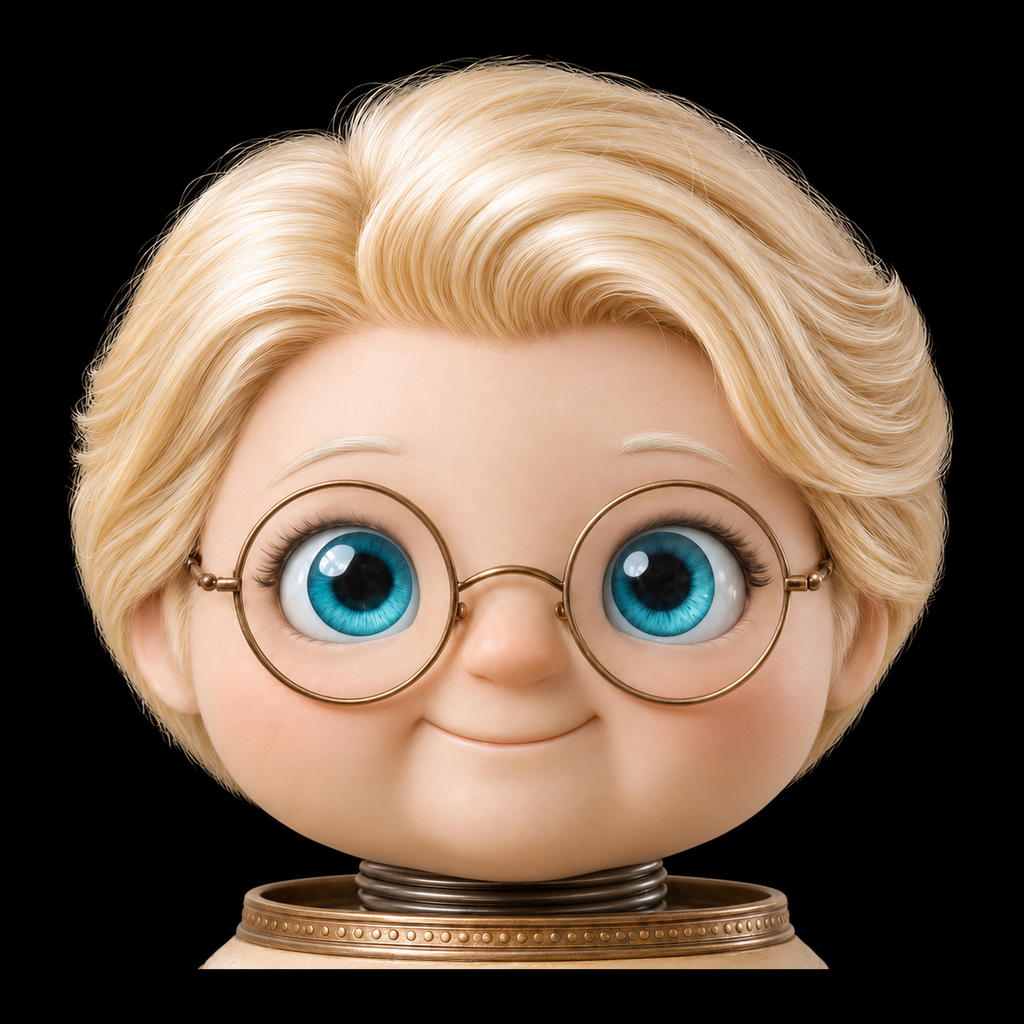
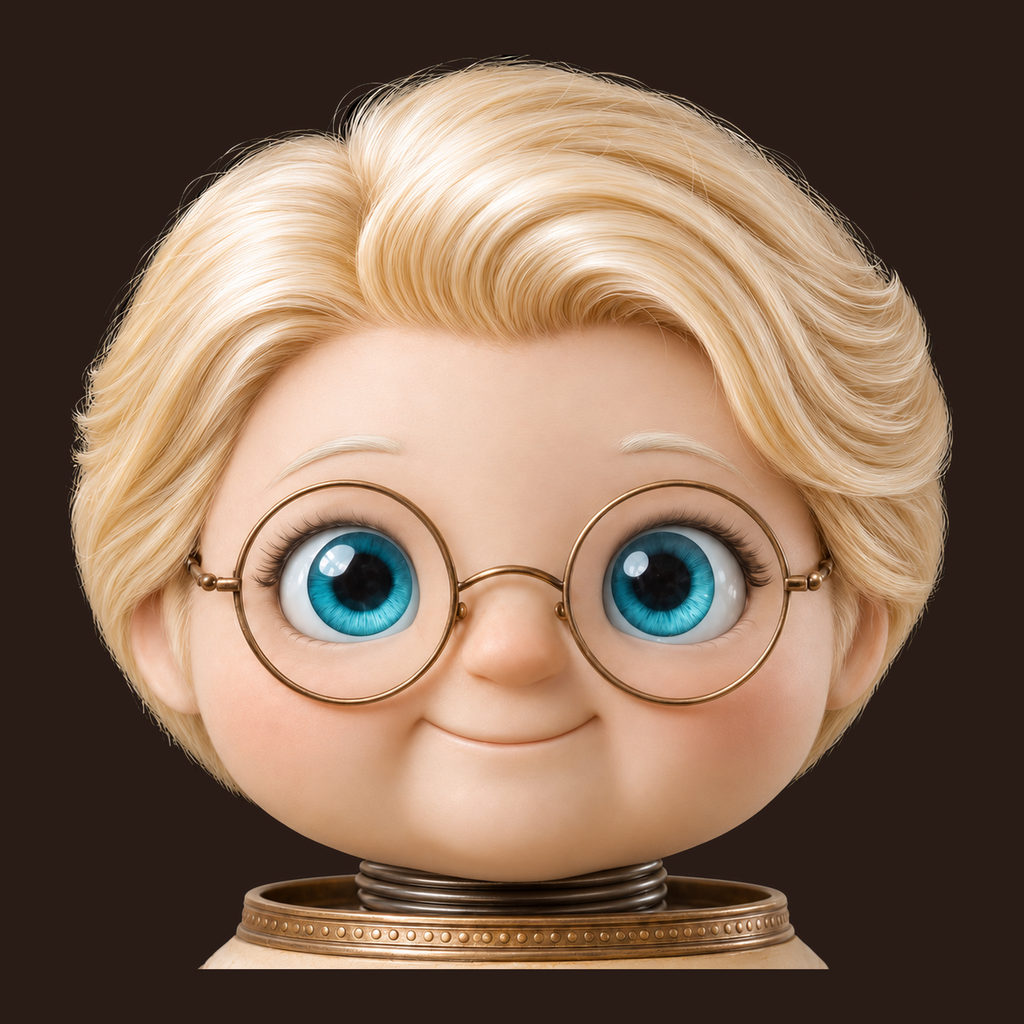
Leda: fundo marrom e cobre metálico na barra, microfone e 'Fale com a Leda'; arte oficial em alta definição; ícones novos

diff --git a/app-leda/full.html b/app-leda/full.html
@@ -10,7 +10,7 @@
 <style>
 :root{
   --bg:#06070a; --ink:#e9eae6; --muted:#8a8d86; --line:rgba(255,255,255,.08);
-  --accent:#d6ff1a; --accent-rgb:214,255,26; --accent-ink:#000; --led:#4fa8ff; --down:#ff6a62; --down-rgb:255,106,98;
+  --accent:#c98a4b; --accent-rgb:201,138,75; --accent-ink:#000; --led:#4fa8ff; --down:#ff6a62; --down-rgb:255,106,98;
   --grid:rgba(255,255,255,.035);
   --mono:"Share Tech Mono",ui-monospace,SFMono-Regular,Menlo,monospace;
   --sans:"Saira",system-ui,-apple-system,"Segoe UI",sans-serif;
@@ -64,7 +64,7 @@ body::after{content:"";position:fixed;inset:0;pointer-events:none;background:rad
 /* com o rosto ao vivo, o centro vira o quadro do FULL: retângulo grande, sem os anéis */
 #hud.com-rosto .orbWrap{width:min(100%,960px);aspect-ratio:16/9}
 #hud.com-rosto #rings{display:none}
-#hud.com-rosto .face{width:100%;aspect-ratio:16/9;border-radius:18px;box-shadow:0 0 0 1px rgba(214,255,26,.18),0 0 50px rgba(214,255,26,.08)}
+#hud.com-rosto .face{width:100%;aspect-ratio:16/9;border-radius:18px;box-shadow:0 0 0 1px rgba(201,138,75,.18),0 0 50px rgba(201,138,75,.08)}
 #hud.com-rosto .face video{object-fit:contain}
 #hud.com-rosto .face canvas{opacity:0}
 .scan{position:absolute;inset:0;border-radius:50%;pointer-events:none;opacity:0;transition:opacity .3s}
@@ -150,10 +150,10 @@ body::after{content:"";position:fixed;inset:0;pointer-events:none;background:rad
 .tile[data-toggle="1"]::before{content:"";position:absolute;left:6px;top:6px;width:5px;height:5px;border-radius:50%;background:#3a3d38}
 .tile[data-toggle="1"][data-on="1"]{border-color:rgba(var(--accent-rgb),.7);color:var(--accent);box-shadow:inset 0 0 14px rgba(var(--accent-rgb),.12)}
 .tile[data-toggle="1"][data-on="1"]::before{background:var(--accent);box-shadow:0 0 8px rgba(var(--accent-rgb),.9)}
-.tile.scene-command{background:transparent;border-color:rgba(225,254,6,.68);color:#dfe2da}
+.tile.scene-command{background:transparent;border-color:rgba(201,138,75,.68);color:#dfe2da}
 .tile.scene-command.scene-pulse{animation:scenePulse 600ms ease-in-out both}
-@keyframes scenePulse{0%,100%{background:transparent;color:inherit;box-shadow:none}18%,58%{background:rgba(225,254,6,.5);color:#111;box-shadow:0 0 16px rgba(225,254,6,.28)}38%,78%{background:transparent;color:inherit;box-shadow:none}}
-@media(prefers-reduced-motion:reduce){.tile.scene-command.scene-pulse{animation:scenePulseReduced 300ms ease-out both}@keyframes scenePulseReduced{0%,100%{background:transparent;box-shadow:none}35%,65%{background:rgba(225,254,6,.4);box-shadow:0 0 12px rgba(225,254,6,.25)}}}
+@keyframes scenePulse{0%,100%{background:transparent;color:inherit;box-shadow:none}18%,58%{background:rgba(201,138,75,.5);color:#111;box-shadow:0 0 16px rgba(201,138,75,.28)}38%,78%{background:transparent;color:inherit;box-shadow:none}}
+@media(prefers-reduced-motion:reduce){.tile.scene-command.scene-pulse{animation:scenePulseReduced 300ms ease-out both}@keyframes scenePulseReduced{0%,100%{background:transparent;box-shadow:none}35%,65%{background:rgba(201,138,75,.4);box-shadow:0 0 12px rgba(201,138,75,.25)}}}
 .tile[data-empty="1"]{color:#55584f;border-style:dashed;font-family:var(--mono);font-size:.8rem}
 .tile[data-busy="1"]{border-color:var(--led);color:var(--led);box-shadow:0 0 14px rgba(79,168,255,.35);animation:busy 1s ease-in-out infinite}
 @keyframes busy{50%{box-shadow:0 0 4px rgba(79,168,255,.15)}}
@@ -452,16 +452,16 @@ input,select,textarea{font-size:16px!important}
 </script>
 <style id="semIris">#unlock{display:none!important}#hud>.mic{overflow:visible}#hud[data-tab="home"]>.mic[data-on="0"]::after{content:attr(data-rotulo);position:absolute;left:calc(100% + 16px);top:50%;transform:translateY(-50%);color:#e1fe06;font:700 1.02rem/1.1 "Barlow Semi Condensed","Barlow",system-ui,sans-serif;letter-spacing:.04em;white-space:nowrap;pointer-events:none;text-shadow:0 0 6px rgba(225,254,6,.75),0 0 18px rgba(225,254,6,.45),0 1px 2px #000}@media (orientation:landscape) and (max-height:600px){#hud[data-tab="home"]>.mic[data-on="0"]::after{left:auto;right:calc(100% + 16px)}}</style>
 <style id="ledaVisual">
-/* Leda (12/11/2026, revisão 2): busto recortado em fundo preto, rosto grande; paleta da VINCI; aba Receitas; sem cotações */
-:root{--leda:#e1fe06;--ledaRGB:225,254,6;--ink950:#080b0d;--ink900:#0e1317;--ink800:#141b21;--ink700:#1c252c;--linha:#24303a;--mist:#93a3af;--texto:#e8edf0}
-html,body{overscroll-behavior:none;background:#000}
+/* Leda (12/11/2026, revisão 3): arte oficial em fundo marrom; barra, microfone e frase em cobre metálico (como o anel do pescoço); aba Receitas; sem cotações */
+:root{--leda:#c98a4b;--ledaRGB:201,138,75;--cobre:linear-gradient(135deg,#f6d2a4 0%,#d39a5f 28%,#a8692f 52%,#e2b07a 74%,#8c5527 100%);--fundo:#291b16;--ink950:#291b16;--ink900:#34231c;--ink800:#3d2a22;--ink700:#4a3328;--linha:#563c2f;--mist:#bfa38b;--texto:#f3e8dc;--accent:#c98a4b;--accent-rgb:201,138,75}
+html,body,#hud{overscroll-behavior:none;background:var(--fundo)!important}
 #market,.panel.market{display:none!important}
 /* o rosto: nada do Felyx aparece (retrato, vídeo, canvas, anéis) */
 html body #hud[data-tab] .face img.retrato,html body #hud.com-rosto[data-tab] .face img.retrato,html body #hud[data-tab] .face video,html body #hud[data-tab] .face canvas,#hud #rings{display:none!important}
-#hud .face{background:#000!important;overflow:hidden!important;position:relative}
+#hud .face{background:var(--fundo)!important;overflow:hidden!important;position:relative}
 #hud .face .ledaBusto,#hud .face .ledaRosto{display:none;-webkit-user-select:none;user-select:none;pointer-events:none}
 /* ABA LEDA: busto grande no preto, rosto bem definido */
-html body #hud[data-tab="home"] .face{position:fixed!important;left:0!important;right:0!important;top:0!important;bottom:calc(var(--tabsH,64px) + var(--micZ,0px))!important;width:auto!important;height:auto!important;aspect-ratio:auto!important;border-radius:0!important;box-shadow:none!important;transform:none!important;background:#000!important}
+html body #hud[data-tab="home"] .face{position:fixed!important;left:0!important;right:0!important;top:0!important;bottom:calc(var(--tabsH,64px) + var(--micZ,0px))!important;width:auto!important;height:auto!important;aspect-ratio:auto!important;border-radius:0!important;box-shadow:none!important;transform:none!important;background:var(--fundo)!important}
 html body #hud[data-tab="home"] .face .ledaBusto{display:block!important;position:absolute!important;left:50%!important;bottom:0!important;top:auto!important;
   height:min(100%,calc(100vw * 1.55))!important;width:auto!important;max-width:none!important;transform:translateX(-50%);transform-origin:50% 100%;
   animation:ledaRespira 5.5s ease-in-out infinite}
@@ -474,7 +474,7 @@ html body #hud[data-tab="home"][data-state="speaking"] .face::after{opacity:1;an
 html body #hud:not([data-tab="home"]) .face{border-radius:50%!important}
 html body #hud:not([data-tab="home"]) .face .ledaRosto{display:block!important;position:absolute!important;inset:0!important;width:100%!important;height:100%!important;
   transform:none!important;left:0!important;top:0!important;object-fit:cover;object-position:50% 45%;border-radius:50%}
-html body #hud:not([data-tab="home"]) .orbWrap{box-shadow:0 0 0 2px rgba(var(--ledaRGB),.55),0 0 26px rgba(var(--ledaRGB),.18)!important;border-radius:50%;background:#000!important}
+html body #hud:not([data-tab="home"]) .orbWrap{box-shadow:0 0 0 2px rgba(var(--ledaRGB),.55),0 0 26px rgba(var(--ledaRGB),.18)!important;border-radius:50%;background:var(--fundo)!important}
 html body #hud:not([data-tab="home"])[data-state="listening"] .orbWrap{box-shadow:0 0 0 3px rgba(var(--ledaRGB),.9),0 0 34px rgba(var(--ledaRGB),.3)!important}
 html body #hud:not([data-tab="home"])[data-state="speaking"] .orbWrap{animation:ledaAnel .9s ease-in-out infinite}
 @keyframes ledaRespira{0%,100%{transform:translateX(-50%) scale(1)}50%{transform:translateX(-50%) scale(1.012)}}
@@ -517,6 +517,19 @@ html body #hud:not([data-tab="home"])[data-state="speaking"] .orbWrap{animation:
 /* 4 abas numa linha só (Leda, Dashboard, Receitas, Salas) */
 html body #hud .appTabs{grid-template-columns:repeat(4,minmax(0,1fr))!important;grid-auto-rows:auto}
 html body #hud:not([data-tab="home"]) .orbWrap .face{width:100%!important;height:100%!important;max-width:none!important}
+
+/* cobre metálico: barra, microfone e frase */
+#hud .appTabs,#hud[data-tab="home"] .appTabs{background:linear-gradient(180deg,#3a271f,#2a1b15)!important;border-top:1px solid transparent!important;border-image:var(--cobre) 1!important}
+#hud .appTabs button[aria-selected="true"]{background:rgba(201,138,75,.12)!important;box-shadow:inset 0 2px 0 #d39a5f!important}
+html body #hud[data-tab="home"]>.mic[data-on="0"]::after{color:transparent!important;background-image:var(--cobre);-webkit-background-clip:text;background-clip:text}
+#hud .appTabs button[aria-selected="true"]{color:#e8b77f!important;text-shadow:0 0 10px rgba(211,154,95,.35)}
+#hud .appTabs button{color:#a88d77!important}
+html body #hud[data-tab="home"]>.mic[data-on="0"]::after{text-shadow:none!important;filter:drop-shadow(0 1px 1px rgba(0,0,0,.6)) drop-shadow(0 0 8px rgba(211,154,95,.35));font-size:1.08rem}
+#hud>.mic,#hud .mic{background:var(--cobre)!important;border:0!important;color:#2a1b15!important;box-shadow:0 0 0 2px rgba(246,210,164,.35),0 6px 18px rgba(0,0,0,.45),inset 0 1px 1px rgba(255,255,255,.5),inset 0 -2px 3px rgba(80,45,15,.5)!important}
+#hud>.mic svg,#hud .mic svg{fill:#2a1b15!important;color:#2a1b15!important}
+#hud .mic[data-on="1"]{background:var(--cobre)!important;filter:brightness(1.12) saturate(1.1);animation:ledaAnel 1.6s ease-in-out infinite}
+html body #hud[data-tab="home"] .face::after{background:var(--cobre)!important}
+html body #hud:not([data-tab="home"]) .orbWrap{aspect-ratio:1/1!important;height:auto!important}
 
 </style>
 <script>
@@ -751,7 +764,7 @@ document.addEventListener('DOMContentLoaded', ()=>{
     <section class="center">
       <section class="orbWrap" aria-label="Leda">
         <canvas id="rings" aria-hidden="true"></canvas>
-        <div class="face"><img class="ledaBusto" src="leda-busto.jpg?v=20261112d" decoding="sync" alt="Leda" draggable="false"><img class="ledaRosto" src="leda-rosto.jpg?v=20261112d" alt="" draggable="false">
+        <div class="face"><img class="ledaBusto" src="leda-busto.jpg?v=20261112e" decoding="sync" alt="Leda" draggable="false"><img class="ledaRosto" src="leda-rosto.jpg?v=20261112e" alt="" draggable="false">
           <img class="retrato" src="leda-rosto.jpg" alt="" aria-hidden="true"><canvas id="cv" width="1000" height="1000" aria-hidden="true"></canvas>
           <video id="avatarVideo" autoplay playsinline muted aria-hidden="true"></video>
           <audio id="avatarAudio" autoplay></audio>
@@ -827,7 +840,7 @@ const ticksEl = document.getElementById('ticks'), bootEl = document.getElementBy
 const deckEl = document.getElementById('deck'), talkBtn = document.getElementById('talk');
 const dotHouse = document.getElementById('dotHouse');
 const reduce = matchMedia('(prefers-reduced-motion: reduce)').matches;
-const ACCENT = '214,255,26';
+const ACCENT = '201,138,75';
 const STATE_TXT = { idle:'aguardando', boot:'iniciando', listening:'ouvindo', thinking:'pensando', speaking:'falando', error:'falha' };
 
 /* ---------- relógio ---------- */
@@ -1082,7 +1095,7 @@ function comS(url){ return url + (url.indexOf('?') < 0 ? '?' : '&') + 's=' + enc
 function sessaoCaiu(resp, j){ if((resp && resp.status === 401) || (j && j.relogar)){ salvarSessao(''); try{ if(conv) stop(); }catch(e){} mostrarLogin('A sessão expirou. Entre de novo.'); return true; } return false; }
 (function montarLogin(){
   const st = document.createElement('style');
-  st.textContent = '#felyxLogin{position:fixed;inset:0;z-index:9999;display:none;align-items:center;justify-content:center;background:#06070a;font-family:inherit}#felyxLogin[data-on="1"]{display:flex}#felyxLogin .cx{width:min(88vw,340px);text-align:center}#felyxLogin h1{color:#e9eae6;font-size:22px;letter-spacing:.3em;margin:0 0 4px;font-weight:600}#felyxLogin p{color:#8a8d86;font-size:12px;margin:0 0 22px}#felyxLogin input{width:100%;box-sizing:border-box;background:#0f1116;border:1px solid #23262d;color:#e9eae6;border-radius:12px;padding:14px 16px;font-size:16px;margin:7px 0;outline:none}#felyxLogin input:focus{border-color:#d6ff1a}#felyxLogin button{width:100%;margin-top:14px;background:#d6ff1a;color:#000;border:0;border-radius:12px;padding:15px;font-size:16px;font-weight:700;cursor:pointer}#felyxLogin button:disabled{opacity:.5}#felyxLogin .er{color:#ff6a62;font-size:13px;min-height:18px;margin-top:12px}';
+  st.textContent = '#felyxLogin{position:fixed;inset:0;z-index:9999;display:none;align-items:center;justify-content:center;background:#06070a;font-family:inherit}#felyxLogin[data-on="1"]{display:flex}#felyxLogin .cx{width:min(88vw,340px);text-align:center}#felyxLogin h1{color:#e9eae6;font-size:22px;letter-spacing:.3em;margin:0 0 4px;font-weight:600}#felyxLogin p{color:#8a8d86;font-size:12px;margin:0 0 22px}#felyxLogin input{width:100%;box-sizing:border-box;background:#0f1116;border:1px solid #23262d;color:#e9eae6;border-radius:12px;padding:14px 16px;font-size:16px;margin:7px 0;outline:none}#felyxLogin input:focus{border-color:#c98a4b}#felyxLogin button{width:100%;margin-top:14px;background:#c98a4b;color:#000;border:0;border-radius:12px;padding:15px;font-size:16px;font-weight:700;cursor:pointer}#felyxLogin button:disabled{opacity:.5}#felyxLogin .er{color:#ff6a62;font-size:13px;min-height:18px;margin-top:12px}';
   document.head.appendChild(st);
   const el = document.createElement('div'); el.id = 'felyxLogin';
   el.innerHTML = '<div class="cx"><h1>LEDA</h1><p>vinci</p>'

diff --git a/app-leda/gem.html b/app-leda/gem.html
@@ -10,7 +10,7 @@
 <style>
 :root{
   --bg:#06070a; --ink:#e9eae6; --muted:#8a8d86; --line:rgba(255,255,255,.08);
-  --accent:#d6ff1a; --accent-rgb:214,255,26; --accent-ink:#000; --led:#4fa8ff; --down:#ff6a62; --down-rgb:255,106,98;
+  --accent:#c98a4b; --accent-rgb:201,138,75; --accent-ink:#000; --led:#4fa8ff; --down:#ff6a62; --down-rgb:255,106,98;
   --grid:rgba(255,255,255,.035);
   --mono:"Share Tech Mono",ui-monospace,SFMono-Regular,Menlo,monospace;
   --sans:"Saira",system-ui,-apple-system,"Segoe UI",sans-serif;
@@ -64,7 +64,7 @@ body::after{content:"";position:fixed;inset:0;pointer-events:none;background:rad
 /* com o rosto ao vivo, o centro vira o quadro do FULL: retângulo grande, sem os anéis */
 #hud.com-rosto .orbWrap{width:min(100%,960px);aspect-ratio:16/9}
 #hud.com-rosto #rings{display:none}
-#hud.com-rosto .face{width:100%;aspect-ratio:16/9;border-radius:18px;box-shadow:0 0 0 1px rgba(214,255,26,.18),0 0 50px rgba(214,255,26,.08)}
+#hud.com-rosto .face{width:100%;aspect-ratio:16/9;border-radius:18px;box-shadow:0 0 0 1px rgba(201,138,75,.18),0 0 50px rgba(201,138,75,.08)}
 #hud.com-rosto .face video{object-fit:contain}
 #hud.com-rosto .face canvas{opacity:0}
 .scan{position:absolute;inset:0;border-radius:50%;pointer-events:none;opacity:0;transition:opacity .3s}
@@ -349,16 +349,16 @@ body::after{content:"";position:fixed;inset:0;pointer-events:none;background:rad
 </style>
 <style id="semIris">#unlock{display:none!important}#hud>.mic{overflow:visible}#hud[data-tab="home"]>.mic[data-on="0"]::after{content:attr(data-rotulo);position:absolute;left:calc(100% + 16px);top:50%;transform:translateY(-50%);color:#e1fe06;font:700 1.02rem/1.1 "Barlow Semi Condensed","Barlow",system-ui,sans-serif;letter-spacing:.04em;white-space:nowrap;pointer-events:none;text-shadow:0 0 6px rgba(225,254,6,.75),0 0 18px rgba(225,254,6,.45),0 1px 2px #000}@media (orientation:landscape) and (max-height:600px){#hud[data-tab="home"]>.mic[data-on="0"]::after{left:auto;right:calc(100% + 16px)}}</style>
 <style id="ledaVisual">
-/* Leda (12/11/2026, revisão 2): busto recortado em fundo preto, rosto grande; paleta da VINCI; aba Receitas; sem cotações */
-:root{--leda:#e1fe06;--ledaRGB:225,254,6;--ink950:#080b0d;--ink900:#0e1317;--ink800:#141b21;--ink700:#1c252c;--linha:#24303a;--mist:#93a3af;--texto:#e8edf0}
-html,body{overscroll-behavior:none;background:#000}
+/* Leda (12/11/2026, revisão 3): arte oficial em fundo marrom; barra, microfone e frase em cobre metálico (como o anel do pescoço); aba Receitas; sem cotações */
+:root{--leda:#c98a4b;--ledaRGB:201,138,75;--cobre:linear-gradient(135deg,#f6d2a4 0%,#d39a5f 28%,#a8692f 52%,#e2b07a 74%,#8c5527 100%);--fundo:#291b16;--ink950:#291b16;--ink900:#34231c;--ink800:#3d2a22;--ink700:#4a3328;--linha:#563c2f;--mist:#bfa38b;--texto:#f3e8dc;--accent:#c98a4b;--accent-rgb:201,138,75}
+html,body,#hud{overscroll-behavior:none;background:var(--fundo)!important}
 #market,.panel.market{display:none!important}
 /* o rosto: nada do Felyx aparece (retrato, vídeo, canvas, anéis) */
 html body #hud[data-tab] .face img.retrato,html body #hud.com-rosto[data-tab] .face img.retrato,html body #hud[data-tab] .face video,html body #hud[data-tab] .face canvas,#hud #rings{display:none!important}
-#hud .face{background:#000!important;overflow:hidden!important;position:relative}
+#hud .face{background:var(--fundo)!important;overflow:hidden!important;position:relative}
 #hud .face .ledaBusto,#hud .face .ledaRosto{display:none;-webkit-user-select:none;user-select:none;pointer-events:none}
 /* ABA LEDA: busto grande no preto, rosto bem definido */
-html body #hud[data-tab="home"] .face{position:fixed!important;left:0!important;right:0!important;top:0!important;bottom:calc(var(--tabsH,64px) + var(--micZ,0px))!important;width:auto!important;height:auto!important;aspect-ratio:auto!important;border-radius:0!important;box-shadow:none!important;transform:none!important;background:#000!important}
+html body #hud[data-tab="home"] .face{position:fixed!important;left:0!important;right:0!important;top:0!important;bottom:calc(var(--tabsH,64px) + var(--micZ,0px))!important;width:auto!important;height:auto!important;aspect-ratio:auto!important;border-radius:0!important;box-shadow:none!important;transform:none!important;background:var(--fundo)!important}
 html body #hud[data-tab="home"] .face .ledaBusto{display:block!important;position:absolute!important;left:50%!important;bottom:0!important;top:auto!important;
   height:min(100%,calc(100vw * 1.55))!important;width:auto!important;max-width:none!important;transform:translateX(-50%);transform-origin:50% 100%;
   animation:ledaRespira 5.5s ease-in-out infinite}
@@ -371,7 +371,7 @@ html body #hud[data-tab="home"][data-state="speaking"] .face::after{opacity:1;an
 html body #hud:not([data-tab="home"]) .face{border-radius:50%!important}
 html body #hud:not([data-tab="home"]) .face .ledaRosto{display:block!important;position:absolute!important;inset:0!important;width:100%!important;height:100%!important;
   transform:none!important;left:0!important;top:0!important;object-fit:cover;object-position:50% 45%;border-radius:50%}
-html body #hud:not([data-tab="home"]) .orbWrap{box-shadow:0 0 0 2px rgba(var(--ledaRGB),.55),0 0 26px rgba(var(--ledaRGB),.18)!important;border-radius:50%;background:#000!important}
+html body #hud:not([data-tab="home"]) .orbWrap{box-shadow:0 0 0 2px rgba(var(--ledaRGB),.55),0 0 26px rgba(var(--ledaRGB),.18)!important;border-radius:50%;background:var(--fundo)!important}
 html body #hud:not([data-tab="home"])[data-state="listening"] .orbWrap{box-shadow:0 0 0 3px rgba(var(--ledaRGB),.9),0 0 34px rgba(var(--ledaRGB),.3)!important}
 html body #hud:not([data-tab="home"])[data-state="speaking"] .orbWrap{animation:ledaAnel .9s ease-in-out infinite}
 @keyframes ledaRespira{0%,100%{transform:translateX(-50%) scale(1)}50%{transform:translateX(-50%) scale(1.012)}}
@@ -414,6 +414,19 @@ html body #hud:not([data-tab="home"])[data-state="speaking"] .orbWrap{animation:
 /* 4 abas numa linha só (Leda, Dashboard, Receitas, Salas) */
 html body #hud .appTabs{grid-template-columns:repeat(4,minmax(0,1fr))!important;grid-auto-rows:auto}
 html body #hud:not([data-tab="home"]) .orbWrap .face{width:100%!important;height:100%!important;max-width:none!important}
+
+/* cobre metálico: barra, microfone e frase */
+#hud .appTabs,#hud[data-tab="home"] .appTabs{background:linear-gradient(180deg,#3a271f,#2a1b15)!important;border-top:1px solid transparent!important;border-image:var(--cobre) 1!important}
+#hud .appTabs button[aria-selected="true"]{background:rgba(201,138,75,.12)!important;box-shadow:inset 0 2px 0 #d39a5f!important}
+html body #hud[data-tab="home"]>.mic[data-on="0"]::after{color:transparent!important;background-image:var(--cobre);-webkit-background-clip:text;background-clip:text}
+#hud .appTabs button[aria-selected="true"]{color:#e8b77f!important;text-shadow:0 0 10px rgba(211,154,95,.35)}
+#hud .appTabs button{color:#a88d77!important}
+html body #hud[data-tab="home"]>.mic[data-on="0"]::after{text-shadow:none!important;filter:drop-shadow(0 1px 1px rgba(0,0,0,.6)) drop-shadow(0 0 8px rgba(211,154,95,.35));font-size:1.08rem}
+#hud>.mic,#hud .mic{background:var(--cobre)!important;border:0!important;color:#2a1b15!important;box-shadow:0 0 0 2px rgba(246,210,164,.35),0 6px 18px rgba(0,0,0,.45),inset 0 1px 1px rgba(255,255,255,.5),inset 0 -2px 3px rgba(80,45,15,.5)!important}
+#hud>.mic svg,#hud .mic svg{fill:#2a1b15!important;color:#2a1b15!important}
+#hud .mic[data-on="1"]{background:var(--cobre)!important;filter:brightness(1.12) saturate(1.1);animation:ledaAnel 1.6s ease-in-out infinite}
+html body #hud[data-tab="home"] .face::after{background:var(--cobre)!important}
+html body #hud:not([data-tab="home"]) .orbWrap{aspect-ratio:1/1!important;height:auto!important}
 
 </style>
 <script>
@@ -637,7 +650,7 @@ document.addEventListener('DOMContentLoaded', ()=>{
     <section class="center">
       <section class="orbWrap" aria-label="Leda">
         <canvas id="rings" aria-hidden="true"></canvas>
-        <div class="face"><img class="ledaBusto" src="leda-busto.jpg?v=20261112d" decoding="sync" alt="Leda" draggable="false"><img class="ledaRosto" src="leda-rosto.jpg?v=20261112d" alt="" draggable="false">
+        <div class="face"><img class="ledaBusto" src="leda-busto.jpg?v=20261112e" decoding="sync" alt="Leda" draggable="false"><img class="ledaRosto" src="leda-rosto.jpg?v=20261112e" alt="" draggable="false">
           <canvas id="cv" width="1000" height="1000" aria-hidden="true"></canvas>
           <video id="avatarVideo" autoplay playsinline muted aria-hidden="true"></video>
           <audio id="avatarAudio" autoplay></audio>
@@ -715,7 +728,7 @@ const ticksEl = document.getElementById('ticks'), bootEl = document.getElementBy
 const deckEl = document.getElementById('deck'), talkBtn = document.getElementById('talk');
 const dotHouse = document.getElementById('dotHouse');
 const reduce = matchMedia('(prefers-reduced-motion: reduce)').matches;
-const ACCENT = '214,255,26';
+const ACCENT = '201,138,75';
 const STATE_TXT = { idle:'aguardando', boot:'iniciando', listening:'ouvindo', thinking:'pensando', speaking:'falando', error:'falha' };
 
 /* ---------- relógio ---------- */
@@ -1041,7 +1054,7 @@ function comS(url){ return url + (url.indexOf('?') < 0 ? '?' : '&') + 's=' + enc
 function sessaoCaiu(resp, j){ if((resp && resp.status === 401) || (j && j.relogar)){ salvarSessao(''); try{ if(conv) stop(); }catch(e){} mostrarLogin('A sessão expirou. Entre de novo.'); return true; } return false; }
 (function montarLogin(){
   const st = document.createElement('style');
-  st.textContent = '#felyxLogin{position:fixed;inset:0;z-index:9999;display:none;align-items:center;justify-content:center;background:#06070a;font-family:inherit}#felyxLogin[data-on="1"]{display:flex}#felyxLogin .cx{width:min(88vw,340px);text-align:center}#felyxLogin h1{color:#e9eae6;font-size:22px;letter-spacing:.3em;margin:0 0 4px;font-weight:600}#felyxLogin p{color:#8a8d86;font-size:12px;margin:0 0 22px}#felyxLogin input{width:100%;box-sizing:border-box;background:#0f1116;border:1px solid #23262d;color:#e9eae6;border-radius:12px;padding:14px 16px;font-size:16px;margin:7px 0;outline:none}#felyxLogin input:focus{border-color:#d6ff1a}#felyxLogin button{width:100%;margin-top:14px;background:#d6ff1a;color:#000;border:0;border-radius:12px;padding:15px;font-size:16px;font-weight:700;cursor:pointer}#felyxLogin button:disabled{opacity:.5}#felyxLogin .er{color:#ff6a62;font-size:13px;min-height:18px;margin-top:12px}';
+  st.textContent = '#felyxLogin{position:fixed;inset:0;z-index:9999;display:none;align-items:center;justify-content:center;background:#06070a;font-family:inherit}#felyxLogin[data-on="1"]{display:flex}#felyxLogin .cx{width:min(88vw,340px);text-align:center}#felyxLogin h1{color:#e9eae6;font-size:22px;letter-spacing:.3em;margin:0 0 4px;font-weight:600}#felyxLogin p{color:#8a8d86;font-size:12px;margin:0 0 22px}#felyxLogin input{width:100%;box-sizing:border-box;background:#0f1116;border:1px solid #23262d;color:#e9eae6;border-radius:12px;padding:14px 16px;font-size:16px;margin:7px 0;outline:none}#felyxLogin input:focus{border-color:#c98a4b}#felyxLogin button{width:100%;margin-top:14px;background:#c98a4b;color:#000;border:0;border-radius:12px;padding:15px;font-size:16px;font-weight:700;cursor:pointer}#felyxLogin button:disabled{opacity:.5}#felyxLogin .er{color:#ff6a62;font-size:13px;min-height:18px;margin-top:12px}';
   document.head.appendChild(st);
   const el = document.createElement('div'); el.id = 'felyxLogin';
   el.innerHTML = '<div class="cx"><h1>LEDA</h1><p>vinci</p>'

diff --git a/app-leda/iris.js b/app-leda/iris.js
@@ -70,7 +70,7 @@
       let tam = Math.max(8 * dpr, R * 0.1), esp = 0.22;
       const medir = () => { c2.font = `600 ${tam}px ui-monospace, Menlo, monospace`; return c2.measureText(txt).width + txt.length * tam * esp; };
       while (medir() > larguraMax && tam > 6 * dpr) { tam *= 0.92; esp = Math.max(0.08, esp * 0.9); }
-      c2.save(); c2.textAlign = 'left'; c2.textBaseline = 'middle'; c2.fillStyle = '#d6ff1a'; c2.shadowColor = 'rgba(214,255,26,.6)'; c2.shadowBlur = 10 * dpr;
+      c2.save(); c2.textAlign = 'left'; c2.textBaseline = 'middle'; c2.fillStyle = '#c98a4b'; c2.shadowColor = 'rgba(201,138,75,.6)'; c2.shadowBlur = 10 * dpr;
       let x = cx - medir() / 2 + tam * esp / 2;
       for (const ch of txt) { c2.fillText(ch, x, y); x += c2.measureText(ch).width + tam * esp; }
       c2.restore();
@@ -82,14 +82,14 @@
       if (cv.width !== W || cv.height !== H) { cv.width = W; cv.height = H; }
       const cx = W / 2, cy = H * 0.46, R = Math.min(W, H) * 0.42, t = (agora - t0) / 1000, ang = t * 2.4;
       c2.clearRect(0, 0, W, H);
-      const ok = fase === 'ok', cor = (a) => `rgba(214,255,26,${a})`;
+      const ok = fase === 'ok', cor = (a) => `rgba(201,138,75,${a})`;
       c2.lineWidth = 1 * dpr;
       for (let i = 1; i <= 4; i++) { c2.strokeStyle = cor(0.12 + i * 0.05); c2.beginPath(); c2.arc(cx, cy, R * i / 4, 0, Math.PI * 2); c2.stroke(); }
       c2.strokeStyle = cor(0.18);
       c2.beginPath(); c2.moveTo(cx - R, cy); c2.lineTo(cx + R, cy); c2.moveTo(cx, cy - R); c2.lineTo(cx, cy + R); c2.stroke();
       if (!ok) { // feixe girando
         const g = c2.createConicGradient ? c2.createConicGradient(ang - 0.9, cx, cy) : null;
-        if (g) { g.addColorStop(0, 'rgba(214,255,26,0)'); g.addColorStop(0.14, 'rgba(214,255,26,.28)'); g.addColorStop(0.145, 'rgba(214,255,26,0)'); c2.fillStyle = g; c2.beginPath(); c2.arc(cx, cy, R, 0, Math.PI * 2); c2.fill(); }
+        if (g) { g.addColorStop(0, 'rgba(201,138,75,0)'); g.addColorStop(0.14, 'rgba(201,138,75,.28)'); g.addColorStop(0.145, 'rgba(201,138,75,0)'); c2.fillStyle = g; c2.beginPath(); c2.arc(cx, cy, R, 0, Math.PI * 2); c2.fill(); }
         c2.strokeStyle = cor(0.9); c2.lineWidth = 2 * dpr;
         c2.beginPath(); c2.moveTo(cx, cy); c2.lineTo(cx + Math.cos(ang) * R, cy + Math.sin(ang) * R); c2.stroke();
         for (const p of pontos) { // pontos acendem quando o feixe passa

diff --git a/app-leda/esqueci-senha.js b/app-leda/esqueci-senha.js
@@ -11,12 +11,12 @@
   }
   const CSS = '#felyxEsqueci{position:fixed;inset:0;z-index:10000;display:flex;align-items:center;justify-content:center;background:#050505;padding:16px;font-family:-apple-system,"SF Pro Text","Segoe UI",Roboto,sans-serif}'
     + '#felyxEsqueci .cx{width:100%;max-width:340px;display:flex;flex-direction:column;gap:12px}'
-    + '#felyxEsqueci h2{margin:0 0 4px;font-size:20px;font-weight:600;color:#d6ff1a;text-align:center}'
+    + '#felyxEsqueci h2{margin:0 0 4px;font-size:20px;font-weight:600;color:#c98a4b;text-align:center}'
     + '#felyxEsqueci p{margin:0;color:#9aa27a;font-size:14px;line-height:1.45;text-align:center}'
     + '#felyxEsqueci input{width:100%;box-sizing:border-box;padding:14px;border-radius:10px;border:1px solid #2a2f15;background:#101208;color:#eef7cc;font-size:16px}'
-    + '#felyxEsqueci button{padding:14px;border-radius:10px;border:0;background:#d6ff1a;color:#111;font-size:16px;font-weight:600;cursor:pointer}'
+    + '#felyxEsqueci button{padding:14px;border-radius:10px;border:0;background:#c98a4b;color:#111;font-size:16px;font-weight:600;cursor:pointer}'
     + '#felyxEsqueci button.sec{background:none;color:#9aa27a;font-weight:400;padding:6px}'
-    + '#felyxEsqueci .er{min-height:1.3em;font-size:14px;color:#ff8a7a;text-align:center}#felyxEsqueci .er.ok{color:#d6ff1a}';
+    + '#felyxEsqueci .er{min-height:1.3em;font-size:14px;color:#ff8a7a;text-align:center}#felyxEsqueci .er.ok{color:#c98a4b}';
 
   window.felyxEsqueciSenha = function (opcoes) {
     opcoes = opcoes || {};

diff --git a/app-leda/index.html b/app-leda/index.html
@@ -1,3 +1,3 @@
-<!doctype html><html lang="pt-BR"><head><meta charset="utf-8"><meta name="viewport" content="width=device-width,initial-scale=1,viewport-fit=cover"><title>Leda AI Vinci</title><link rel="manifest" href="manifest.json"><style>html,body{margin:0;height:100%;background:#05080d}</style>
-<script>location.replace('full.html?v=20261112d' + (location.search ? '&' + location.search.slice(1) : '') + location.hash);</script>
-<meta http-equiv="refresh" content="0;url=full.html?v=20261112d"></head><body><!-- Leda: o app abre a Leda Full em full.html; o login fica dentro dela --></body></html>
+<!doctype html><html lang="pt-BR"><head><meta charset="utf-8"><meta name="viewport" content="width=device-width,initial-scale=1,viewport-fit=cover"><title>Leda AI Vinci</title><link rel="manifest" href="manifest.json"><style>html,body{margin:0;height:100%;background:#291b16}</style>
+<script>location.replace('full.html?v=20261112e' + (location.search ? '&' + location.search.slice(1) : '') + location.hash);</script>
+<meta http-equiv="refresh" content="0;url=full.html?v=20261112e"></head><body><!-- Leda: o app abre a Leda Full em full.html; o login fica dentro dela --></body></html>
